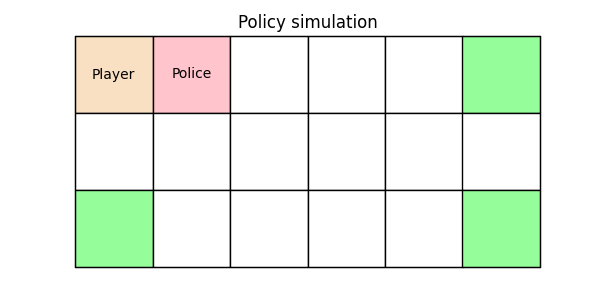
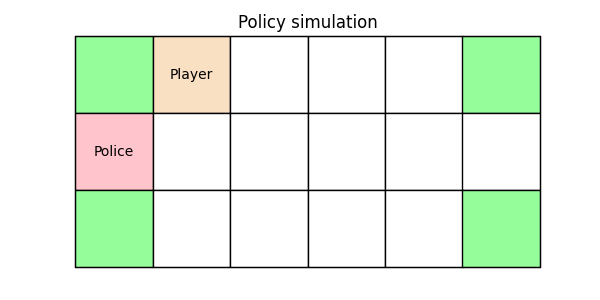
Problem 2 solved

Changed region(s): [[0.12, 0.12, 0.39, 0.66]]

diff --git a/lab1/lab1_2_maze.py b/lab1/lab1_2_maze.py
@@ -103,6 +103,7 @@ class Maze:
         else:
             return self.map[(row, col, self.states[state][2], self.states[state][3])]
 
+
     def __move_police(self, state):
         """ Makes a step in the maze, given a current position.
             The
@@ -112,42 +113,42 @@ class Maze:
 
         #if same column as robber
         if (self.states[state][2] == self.states[state][0]) and (self.states[state][3] > self.states[state][1]):
-            print("go up down or left")
+            #print("go up down or left")
             actioncandidates = [1, 3, 4] #go up down or left
             actionindex = random.randint(0,2)
             action = actioncandidates[actionindex]
         elif (self.states[state][2] == self.states[state][0]) and (self.states[state][3] < self.states[state][1]):
-            print("go up down or right")
+            #print("go up down or right")
             actioncandidates = [2, 3, 4] #go up down or right
             actionindex = random.randint(0,2)
             action = actioncandidates[actionindex]
         elif (self.states[state][3] == self.states[state][1]) and (self.states[state][2] < self.states[state][0]):
-            print("go left right or down")
+            #print("go left right or down")
             actioncandidates = [1, 2, 4] #go left right or down
             actionindex = random.randint(0,2)
             action = actioncandidates[actionindex]
         elif (self.states[state][3] == self.states[state][1]) and (self.states[state][2] > self.states[state][0]):
-            print("go left right or up")
+            #print("go left right or up")
             actioncandidates = [1, 2, 3] #go left right or up
             actionindex = random.randint(0,2)
             action = actioncandidates[actionindex]
         elif (self.states[state][3] > self.states[state][1]) and (self.states[state][2] < self.states[state][0]):
-            print("go left or down")
+            #print("go left or down")
             actioncandidates = [1, 4] #left or down
             actionindex = random.randint(0,1)
             action = actioncandidates[actionindex]
-        elif (self.states[state][3] < self.states[state][1]) and (self.states[state][2] > self.states[state][0]):
-            print("go right or down")
+        elif (self.states[state][3] < self.states[state][1]) and (self.states[state][2] < self.states[state][0]):
+            #print("go right or down")
             actioncandidates = [2, 4] #go right or down
             actionindex = random.randint(0,1)
             action = actioncandidates[actionindex]
         elif (self.states[state][3] > self.states[state][1]) and (self.states[state][2] > self.states[state][0]):
-            print("go left or up")
+            #print("go left or up")
             actioncandidates = [1, 3] #go left or up
             actionindex = random.randint(0,1)
             action = actioncandidates[actionindex]
-        elif (self.states[state][3] < self.states[state][1]) and (self.states[state][2] < self.states[state][0]):
-            print("go right or up")
+        elif (self.states[state][3] < self.states[state][1]) and (self.states[state][2] > self.states[state][0]):
+            #print("go right or up")
             actioncandidates = [2, 3] #go right or up
             actionindex = random.randint(0,1)
             action = actioncandidates[actionindex]
@@ -181,6 +182,7 @@ class Maze:
         else:
             return self.map[(self.states[state][0], self.states[state][1], row, col)]
 
+
     def __transitions(self):
         """ Computes the transition probabilities for every state action pair.
             :return numpy.tensor transition probabilities: tensor of transition
@@ -207,20 +209,35 @@ class Maze:
             for s in range(self.n_states):
                 for a in range(self.n_actions):
                     next_s = self.__move(s, a)
-                    # Rewrd for hitting a wall
+                    # Reward for hitting a wall
                     if s == next_s and a != self.STAY:
                         rewards[s, a] = self.IMPOSSIBLE_REWARD
-                    # Reward for reaching the exit
+                    # Reward for robbing a bank
                     elif s == next_s and self.maze[self.states[next_s][0:2]] == 1:
                         rewards[s, a] = self.BANK_REWARD
-                    # Reward for taking a step to an empty cell that is not the exit
+                    # Reward for getting caught
                     elif self.states[s][0] == self.states[s][2] and \
                             self.states[s][1] == self.states[s][3]:
+                        rewards[s, a] = self.CAUGHT_REWARD
+                    elif self.states[next_s][0] == self.states[next_s][2] and \
+                            self.states[next_s][1] == self.states[next_s][3]:
                         rewards[s, a] = self.CAUGHT_REWARD
                     else:
                         rewards[s, a] = self.STEP_REWARD
 
-        # If the weights are descrobed by a weight matrix
+                    #Add penalty reward if the selected action causes the robber to be neighbour with the police
+                    if self.states[next_s][0] == self.states[next_s][2] and self.states[next_s][1] == self.states[next_s][3]-1:
+                        rewards[s, a] -= 50/3
+                    if self.states[next_s][0] == self.states[next_s][2] and self.states[next_s][1] == self.states[next_s][3]+1:
+                        rewards[s, a] -= 50/3
+                    if self.states[next_s][0] == self.states[next_s][2]-1 and self.states[next_s][1] == self.states[next_s][3]:
+                        rewards[s, a] -= 50/3
+                    if self.states[next_s][0] == self.states[next_s][2]+1 and self.states[next_s][1] == self.states[next_s][3]:
+                        rewards[s, a] -= 50/3
+
+
+
+        # If the weights are described by a weight matrix
         else:
             for s in range(self.n_states):
                 for a in range(self.n_actions):
@@ -231,7 +248,7 @@ class Maze:
 
         return rewards
 
-    def simulate(self, start, policy, method):
+    def simulate(self, start, policy, method, horizon):
         if method not in methods:
             error = 'ERROR: the argument method must be in {}'.format(methods)
             raise NameError(error)
@@ -274,15 +291,17 @@ class Maze:
             # Add the position in the maze corresponding to the next state
             # to the path
             # Loop while state is not the goal state
-            while t < 20:
+            while t < horizon:
                 # Update state
                 # Move to next state given the policy and the current state
-                print(t)
-                print(self.states[s])
+                #print(t)
+                #print(self.states[s])
                 s = self.__move_police(s)
-                print(self.states[s])
+                #print(self.states[s])
+                #print(s)
+                #print(policy[s])
                 s = self.__move(s, policy[s])
-                print(self.states[s])
+                #print(self.states[s])
                 # Add the position in the maze corresponding to the next state
                 # to the path
                 path.append(self.states[s])
@@ -299,7 +318,6 @@ class Maze:
         print(self.map)
         print('The rewards:')
         print(self.rewards)
-
 
 def dynamic_programming(env, horizon):
     """ Solves the shortest path problem using dynamic programming
@@ -348,7 +366,6 @@ def dynamic_programming(env, horizon):
         policy[:, t] = np.argmax(Q, 1)
     return V, policy
 
-
 def value_iteration(env, gamma, epsilon):
     """ Solves the shortest path problem using value iteration
         :input Maze env           : The maze environment in which we seek to
@@ -387,17 +404,19 @@ def value_iteration(env, gamma, epsilon):
     BV = np.max(Q, 1)
 
     # Iterate until convergence
-    while np.linalg.norm(V - BV) >= tol and n < 200:
+    while np.linalg.norm(V - BV) >= tol and n < 1000:
         # Increment by one the numbers of iteration
         n += 1
-        print("Iterating n")
-        print(n)
+        #print("Iterating n")
+        #print(n)
         # Update the value function
         V = np.copy(BV)
         # Compute the new BV
-        for s in range(n_states):
+        for state in range(n_states):
+            #neighbours = police_neighbours(state)
             for a in range(n_actions):
-                Q[s, a] = r[s, a] + gamma * np.dot(p[:, s, a], V)
+                Q[state, a] = r[state, a] + gamma * np.dot(p[:, state, a], V)
+
         BV = np.max(Q, 1)
         # Show error
         # print(np.linalg.norm(V - BV))
@@ -511,3 +530,4 @@ def animate_solution(maze, path):
         plt.savefig("ba" + str(i) + ".png")
         display.clear_output(wait=True)
         time.sleep(1)
+

diff --git a/lab1/lab1_c.py b/lab1/lab1_c.py
@@ -14,29 +14,48 @@ maze[2, 5] = 1
 numfinishmaze = 0
 # Create an environment maze
 env = mz.Maze(maze)
+x = np.zeros(shape=100)
+y = np.zeros(shape=100)
+for i in range(89):
+    gamma = (i+1)/100
+    print(gamma)
+    # Finite horizon
+    horizon = 20
+    #gamma = 0.5 #called lambda in the assignment
+    epsilon = 0.05
+    # Solve the MDP problem with dynamic programming
+    V, policy = mz.value_iteration(env, gamma, epsilon)
+    #print(V[8])
+    #print(policy)
+    #print(V[8])
 
-# Finite horizon
-horizon = 20
+    # x axis values
+    x[i] = gamma
+    # corresponding y axis values
+    y[i] = V[8]
 
-gamma = 0.7
-epsilon = 0.05
-# Solve the MDP problem with dynamic programming
-V, policy = mz.value_iteration(env, gamma, epsilon)
-#for i in range(100):
-# Simulate the shortest path starting from position A
-#   method = 'DynProg'
-#  start  = (0, 0, 6, 5)
-# path = env.simulate(start, policy, method)
-#if path[-1][0:2] == (6, 5):
-#   numfinishmaze += 1
-#print(numfinishmaze)
+# plotting the points
+# plotting points as a scatter plot
+plt.scatter(x, y, label= "values", color= "green",
+            marker= "*", s=30)
+
+# naming the x axis
+plt.xlabel('Lambda')
+# naming the y axis
+plt.ylabel('Value function result')
+
+# giving a title to my graph
+plt.title('Value function as a function of Lambda at the initial state')
+plt.legend
+
+# function to show the plot
+plt.savefig("2c.1.png")
+plt.show()
+
 method = 'ValIter'
-start  = (0, 0, 1, 2)
-path = env.simulate(start, policy, method)
-
-
-
+start  = (0, 0, 1, 2) #Corresponds to element number 8 in our statespace
+#path = env.simulate(start, policy, method, horizon)
 
 # Show the shortest path
-mz.animate_solution(maze, path)
+#mz.animate_solution(maze, path)
 
